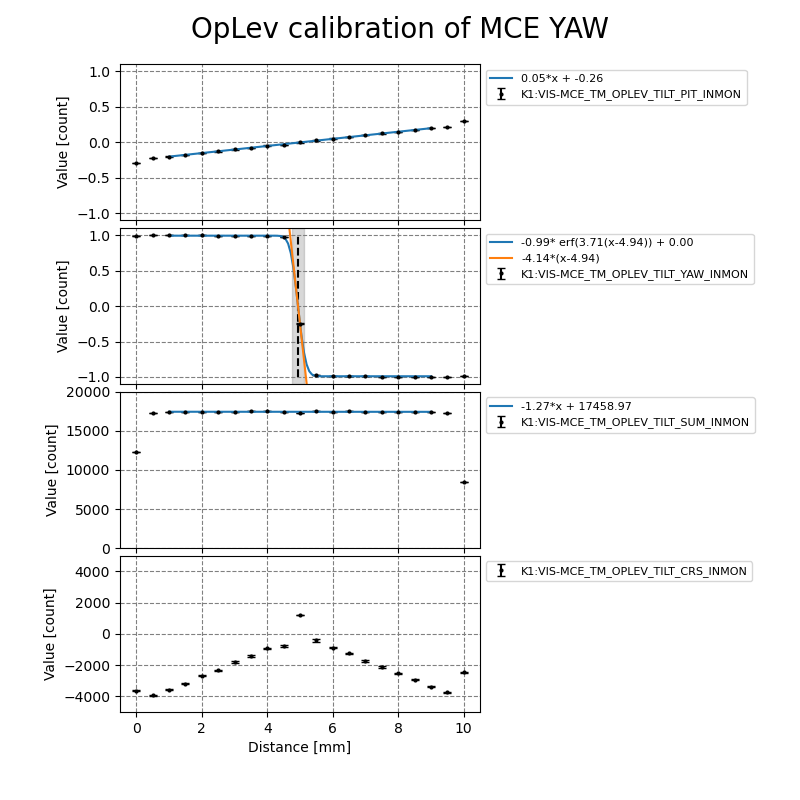
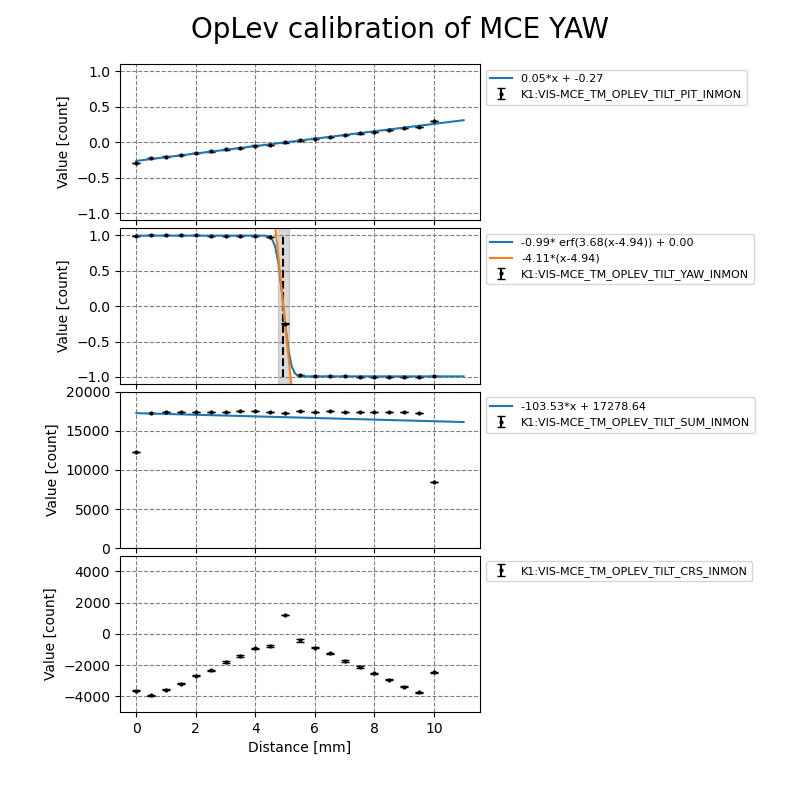
autocommissioning: Update MCI result

diff --git a/common/scripts/autocommissioning/oplev/calibration.py b/common/scripts/autocommissioning/oplev/calibration.py
@@ -47,8 +47,7 @@ def calibration(output,show=False):
                          fmt='ko',label=_name[n],
                          markersize=2,capsize=3)
             #
-            _df = df[df['Disp']>=df['Disp'].min()+1]
-            _df = _df[_df['Disp']<=_df['Disp'].max()-1.5]
+            _df = df
             if dof not in _name[n]:
                 if 'SUM' not in _name[n] and 'CRS' not in _name[n]:
                     func = lambda x,a,b: a+b*x
@@ -63,9 +62,17 @@ def calibration(output,show=False):
                 x = _df['Disp']
                 bounds = [[-1, -5, -20, -2],
                           [+1, +5, +20, +2]]
+                y = _df[_name[n]+'.mean'].values
                 popt, pcov = curve_fit(func,x,_df[_name[n]+'.mean'],bounds=bounds)
+                if (y[-1]-y[0])>0:
+                    ini_param = np.array([-1.0,-3.5,x.mean(),0.0])
+                else:
+                    ini_param = np.array([-1.0,+3.5,x.mean(),0.0])                    
+                popt, pcov = curve_fit(func,x,y,p0=ini_param)
+                
                 a,b,c,d = popt
                 _x = np.linspace(int(x.min()),int(x.max())+1,100)
+                #_x = x
                 label = '{0:3.2f}* erf({1:3.2f}(x-{2:3.2f})) + {3:3.2f}'.format(a,b,c,d)
                 _ax.plot(_x,func(_x,*popt),label=label)
                 func = lambda x,a,b,c: a*b*(x-c)*2/np.sqrt(np.pi)
@@ -114,7 +121,7 @@ if __name__=='__main__':
     calibration('./data/MCO_TM_OPLEV_TILT_YAW.txt',show=True)                
     calibration('./data/MCE_TM_OPLEV_TILT_YAW.txt',show=True)
     calibration('./data/MCE_TM_OPLEV_TILT_PIT.txt',show=True)
-    calibration('./data/MCI_TM_OPLEV_TILT_YAW.txt',show=True)            
-    calibration('./data/MCI_TM_OPLEV_TILT_PIT.txt',show=True)        
+    calibration('./data/MCI_TM_OPLEV_TILT_PIT.txt',show=True)            
+    calibration('./data/MCI_TM_OPLEV_TILT_YAW.txt',show=True)       
     #calibration('mce_yaw.txt')
     #calibration('mce_pit.txt')
